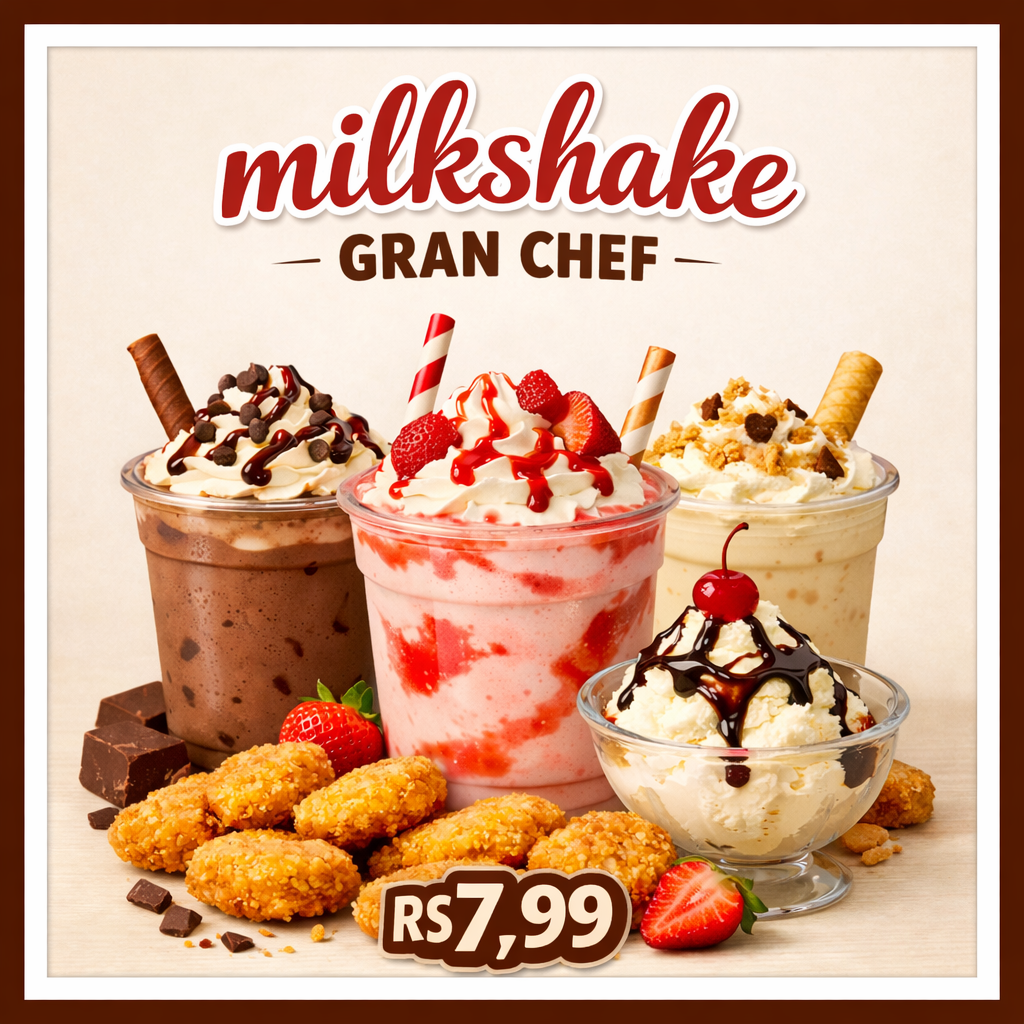
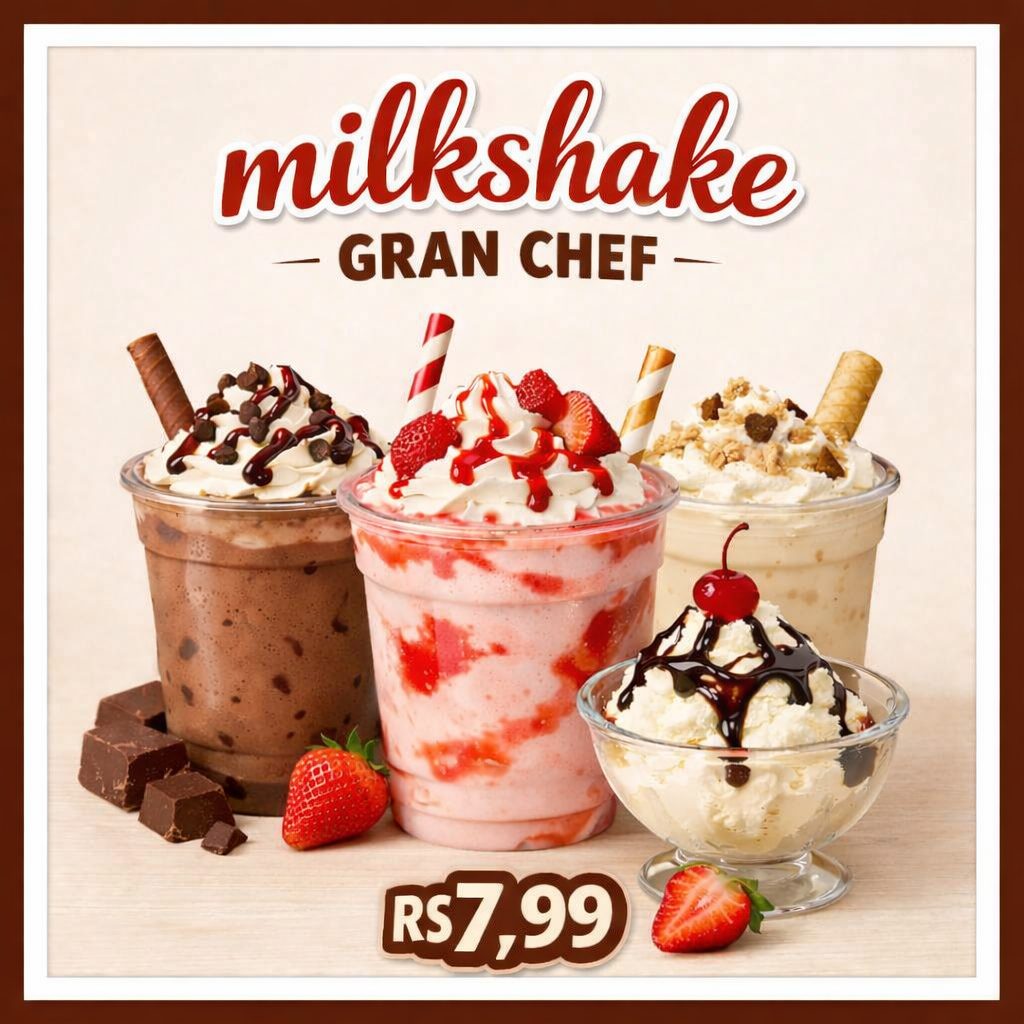
updated

diff --git a/dispositivosMoveis.css b/dispositivosMoveis.css
@@ -13,9 +13,13 @@
         font-size: 40px;   /* aumenta o tamanho do ícone */
         cursor: pointer;   /* deixa com aparência de botão clicável */
         padding: 10px;     /* aumenta a área de clique */
+        background-color: var(--cor-header);
     }
 
-    
+    .opcoes button {
+        border: none;
+        color: var(--cor-de-fundo);
+    }
 
     .logo-fundo-laranja, .logo2, .navegacao {
         display: none;
@@ -25,7 +29,7 @@
         display: flex;
         justify-content: flex-start;
         align-items: center;
-        color: var(--cor-de-fundo);
+        background-color: var(--cor-header);
     }
     
     .logo-rosto {
@@ -75,18 +79,18 @@
         width: 100%;
     }
 
-    .Ver-Mais {
+    .Ver-Mais-Sobremesas {
         display: flex;
         height: 50px;
         background-color: var(--cor-botoes);
-        margin: 15px;
+        margin: 20px;
         color: var(--cor-de-fundo);
         align-items: center;
         justify-content: center;
         font-family: 'Alfa Slab One', cursive;
     }
 
-    .Ver-Mais p {
+    .Ver-Mais-Sobremesas p {
         font-family: 'Passion One', cursive;
     }
 
@@ -107,7 +111,7 @@
         transform: translateY(-50%);
         z-index: 20;
         background: rgba(0, 0, 0, 0.5);
-        color: white;
+        color: var(--cor-de-fundo);
         border: none;
         font-size: 30px;
         padding: 10px 15px;
@@ -139,6 +143,8 @@
         z-index: 10;
         margin-top: 0; /* anula qualquer margem anterior */
     }
+
+    
 
     .dot {
         width: 12px;
@@ -191,7 +197,7 @@
     }
 
     .Bloco-Mensagem > p {
-        color: white;
+        color: var(--cor-de-fundo);
         font-family: 'Passion One', cursive;
         width: 80%;
         font-size: 2rem;
@@ -203,13 +209,9 @@
         transform: scale(3);
     }
 
-    
-
-    
-
     .AppApple, .AppGoogle {
         font-size: 2vw;
-        color: white;
+        color: var(--cor-de-fundo);
         display: flex;
         align-items: center;
         margin: 10px 10px;
@@ -229,7 +231,31 @@
     }
 
     
+    footer {
+        background-color: var(--cor-botoes);
+        width: 100%;
+        display: flex;
+        align-content: center;
+        align-items: center;
+        flex-flow: column nowrap;
+        color: var(--cor-de-fundo);
+    }
+
+   
+    footer img {
+        display: flex;
+        justify-content: center;
+    }
     
+    footer > .logo-gran-chef {
+        width: 150px;
+        height: auto;
+    }
+
+    footer > .logo-marca {
+        width: 200px;
+        height: auto;
+    }
     
 
 }

diff --git a/index.html b/index.html
@@ -20,14 +20,14 @@
     <header>
 
         <div class="opcoes">
-            <span class="material-symbols-outlined">
-                menu
-            </span>
+            <button arial-label="Abrir menu">
+                <span class="material-symbols-outlined">menu</span>
+            </button>
             <img src="imagens/logo-cozinheiro.webp" alt="logoGranChef" class="logo-rosto">
         </div>
 
         <div class="logo">
-            <a href="">
+            <a href="/" aria-label="Página inicial">
                 <img src="imagens/fundo-laranja-tranparente.webp" alt="logoGranChef" class="logo-fundo-laranja" width="150" height="auto";>
                 
                 <img src="imagens/logo-nome.webp" alt="logoGranChef" class="logo-gran-chef">
@@ -35,15 +35,14 @@
     
             <nav class="navegacao">
                 <ul>
-                    <li>Início</li>
-                    <li>Cupons</li>
-                    <li>Cardápio</li>
-                    <li>App GC</li>
-                    <li>Clube GC</li>
-                    <li>Delivery</li>
+                    <li><a href="#">Início</a></li>
+                    <li><a href="#">Cupons</a></li>
+                    <li><a href="#">Cardápio</a></li>
+                    <li><a href="#">App GC</a></li>
+                    <li><a href="#">Clube GC</a></li>
+                    <li><a href="#">Delivery</a></li>
                 </ul>
             </nav>
-
         </div>
 
         <div class="icones-a-direita">
@@ -70,7 +69,7 @@
                 <img class="doces" src="imagens/smallMilkshake.png" alt="foto-milkshake">
             </div>
         </section>
-        <div class="Ver-Mais">
+        <div class="Ver-Mais-Sobremesas">
             <p>Ver Mais</p>
         </div>
         <section class="Bloco-Aplicativo">
@@ -102,13 +101,20 @@
             </div>
             
         </section>
-        <section>
-
-        </section>
     </main>
 
     <footer>
-
+        <img class="logo-marca" src="imagens/logo-nome.webp" alt="logo-franquia">
+        <img class="logo-gran-chef" src="imagens/logoOficialWebp.webp" alt="logo-gran-chef">
+            <nav>
+                <ul>
+                    
+                    <span>App GC</span>
+                    <span>Sobre o CG</span>
+                    <span>Seja um franqueado</span>
+                    <span>Relações com investimento</span>
+                </ul>
+            </nav>
     </footer>
     <script src="codigoJavascript.js"></script>
 </body>

diff --git a/style.css b/style.css
@@ -15,10 +15,11 @@
   
   --cor-header: #EB9401;
   --cor-imagens: #E06100;
-  --cor-poster: #BD2600;
+  --cor-poster: #ff1e00;
   --cor-botoes: #9C0015;
   --cor-de-fundo: #F5EBDC;
   --cor-escura: #000000;
+  
 }
 
 